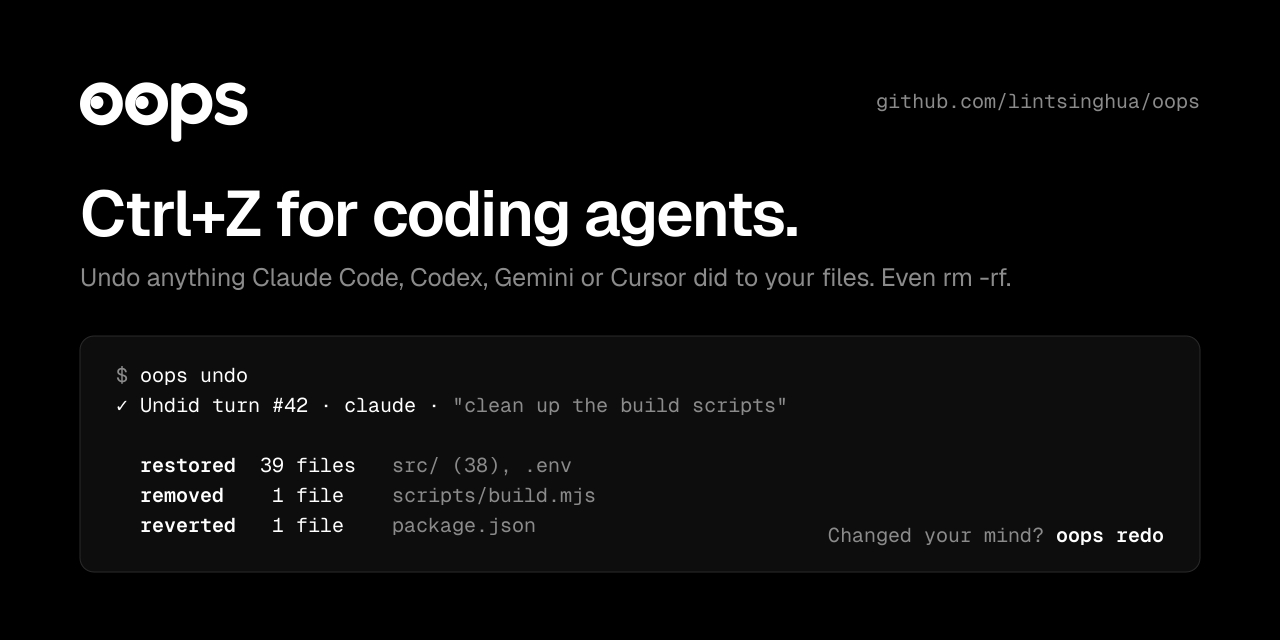
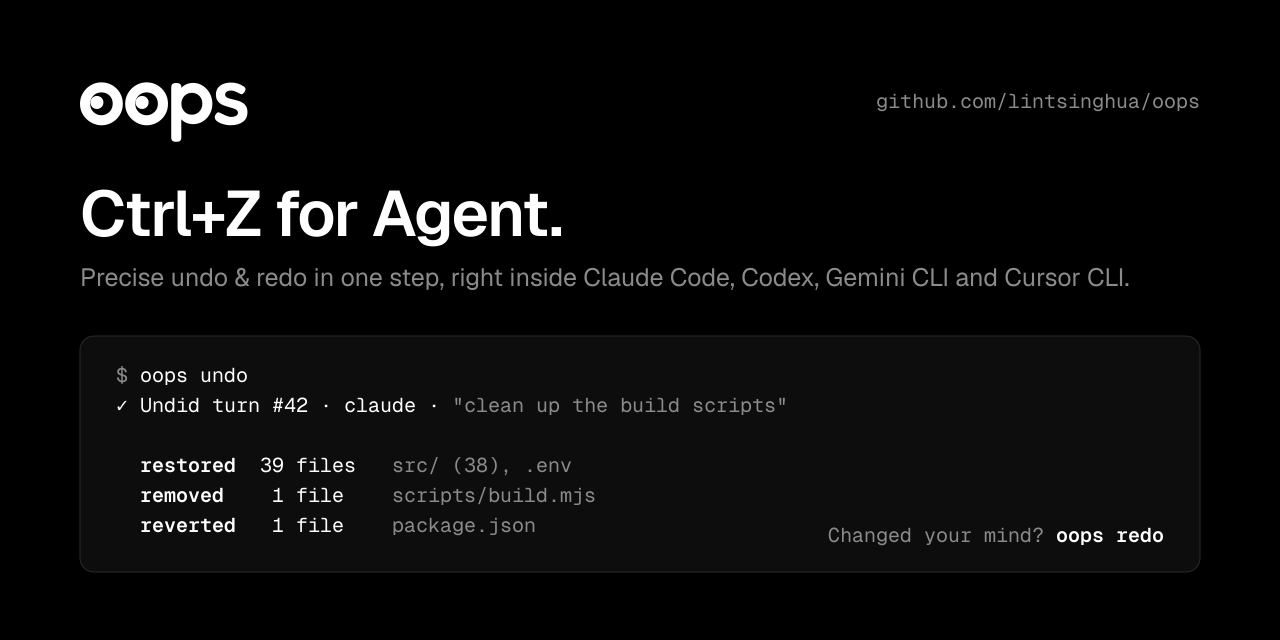
Put the Ctrl+Z for Agent slogan on the social preview.

Changed region(s): [[0.0625, 0.2812, 0.875, 0.4688]]

diff --git a/brand/scripts/build_social.py b/brand/scripts/build_social.py
@@ -1,0 +1,51 @@
+#!/usr/bin/env python3
+"""Build social-preview.svg (1280×640, GitHub social preview / OG image), monochrome.
+Logo: logo-v2/A-glance wordmark (outlined). Text uses Geist + Geist Mono via fontconfig; render with rsvg-convert."""
+import os, re
+from xml.sax.saxutils import escape
+ROOT = os.path.join(os.path.dirname(__file__), "..")
+wm = open(os.path.join(ROOT, "logo-v2", "A-glance", "wordmark-dark.svg")).read()
+inner = re.search(r"</title>(.*)</svg>", wm, re.S).group(1)
+vx, vy, wm_w, wm_h = map(float, re.search(r'viewBox="([-\d.]+) ([-\d.]+) ([\d.]+) ([\d.]+)"', wm).groups())
+
+# pure black & white; the terminal card distinguishes actions by word, not colour
+BG, FG, MUTED, LINE, CARD = "#000000", "#FFFFFF", "#8B8B8B", "#2A2A2A", "#0D0D0D"
+SANS, MONO = "Geist, Inter, sans-serif", "'Geist Mono', 'JetBrains Mono', monospace"
+
+def t(x, y, s, size, fill, family=SANS, weight=400, extra=""):
+    return f'<text x="{x}" y="{y}" font-family="{family}" font-size="{size}" font-weight="{weight}" fill="{fill}" {extra}>{s}</text>'
+
+def span(s, fill, weight=None):
+    w = f' font-weight="{weight}"' if weight else ""
+    return f'<tspan fill="{fill}"{w}>{escape(s)}</tspan>'
+
+# the wordmark SVG carries 22% padding top and bottom; size so the ink is ~60 px tall
+scale = 60 * 1.44 / wm_h
+pad = 0.22 * wm_h / 1.44
+parts = [f'<rect width="1280" height="640" fill="{BG}"/>',
+         f'<g transform="translate({80 - (vx + pad) * scale:.2f} {82 - (vy + pad) * scale:.2f}) scale({scale:.4f})">{inner}</g>',  # ink box at (80, 82)
+         t(1200, 108, "github.com/lintsinghua/oops", 20, MUTED, MONO, extra='text-anchor="end"'),
+         t(80, 236, "Ctrl+Z for Agent.", 64, FG, SANS, 600, 'letter-spacing="-1.6"'),
+         t(80, 286, escape("Precise undo & redo in one step, right inside Claude Code, Codex, Gemini CLI and Cursor CLI."), 25, MUTED)]
+
+# terminal card — copy follows DESIGN.md §1.4 verbatim
+cx, cy, cw, ch = 80, 336, 1120, 236
+parts.append(f'<rect x="{cx}" y="{cy}" width="{cw}" height="{ch}" rx="14" fill="{CARD}" stroke="{LINE}"/>')
+lines = [
+    span("$ ", MUTED) + span("oops undo", FG),
+    span("✓ ", FG) + span("Undid turn #42 · claude · ", FG) + span('"clean up the build scripts"', MUTED),
+    "",
+    span("  restored  ", FG, 600) + span("39 files   ", FG) + span("src/ (38), .env", MUTED),
+    span("  removed   ", FG, 600) + span(" 1 file    ", FG) + span("scripts/build.mjs", MUTED),
+    span("  reverted  ", FG, 600) + span(" 1 file    ", FG) + span("package.json", MUTED),
+]
+y = cy + 46
+for ln in lines:
+    if ln:
+        parts.append(f'<text x="{cx + 36}" y="{y}" font-family="{MONO}" font-size="20" xml:space="preserve">{ln}</text>')
+    y += 30
+parts.append(t(cx + cw - 36, cy + ch - 30, span("Changed your mind? ", MUTED) + span("oops redo", FG, 600), 20, FG, MONO, extra='text-anchor="end" xml:space="preserve"'))
+
+svg = ('<svg xmlns="http://www.w3.org/2000/svg" width="1280" height="640" viewBox="0 0 1280 640">'
+       + "".join(parts) + "</svg>\n")
+open(os.path.join(ROOT, "social-preview.svg"), "w").write(svg)
